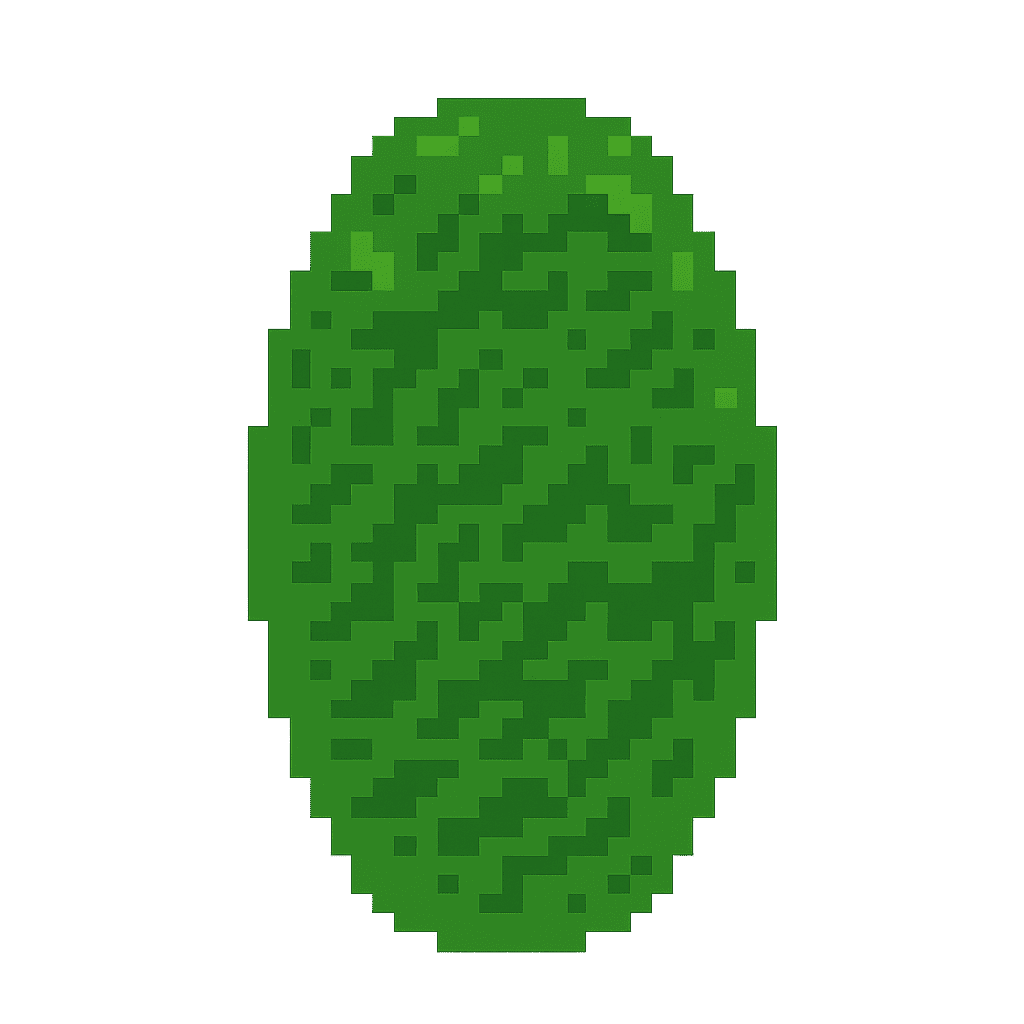
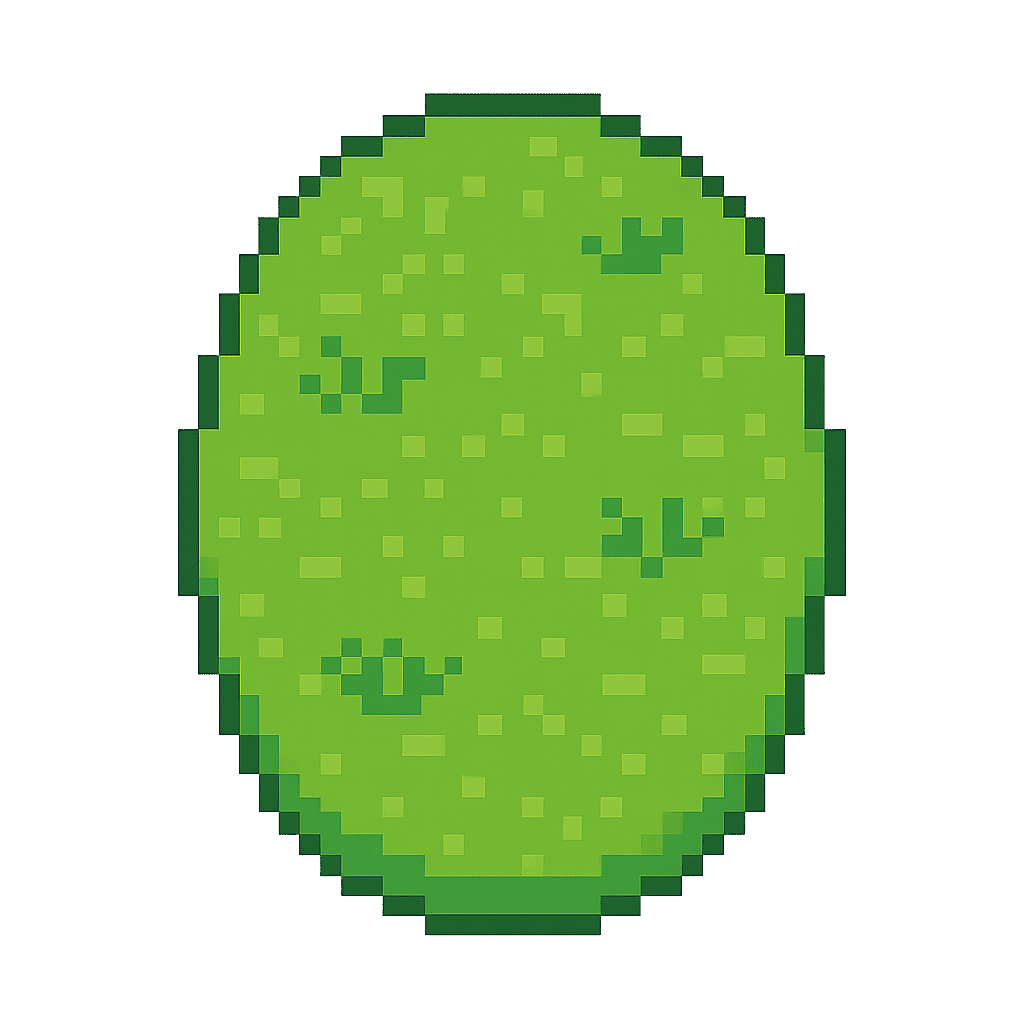
Abgabe 10 überarbeitet + Small Island

diff --git a/Abgabe_10/src/thd/gameobjects/movable/SmallIsland.java b/Abgabe_10/src/thd/gameobjects/movable/SmallIsland.java
@@ -33,7 +33,7 @@ public class SmallIsland extends CollidingGameObject implements ShiftableGameObj
         rotation = 0;
         width = 40;
         height = 100;
-        hitBoxOffsets(-15, -45, -10, -7);
+        hitBoxOffsets(-25, -35, 13, -30);
         distanceToBackground = 1;
     }
 
@@ -65,7 +65,6 @@ public class SmallIsland extends CollidingGameObject implements ShiftableGameObj
      */
     @Override
     public void addToCanvas() {
-        gameView.addOvalToCanvas(position.getX(), position.getY(), width - 20, height - 50, 4, true, Color.GREEN.darker());
         gameView.addImageToCanvas("small_island.png", position.getX() - 50, position.getY() - 50, 0.1, 0);
     }
 

diff --git a/Abgabe_10/src/thd/game/managers/GameObjectManager.java b/Abgabe_10/src/thd/game/managers/GameObjectManager.java
@@ -38,7 +38,7 @@ class GameObjectManager extends CollisionManager {
             gameObject.updatePosition();
             gameObject.addToCanvas();
         }
-        manageCollisions(false);
+        manageCollisions(true);
     }
 
     private void updateLists() {
